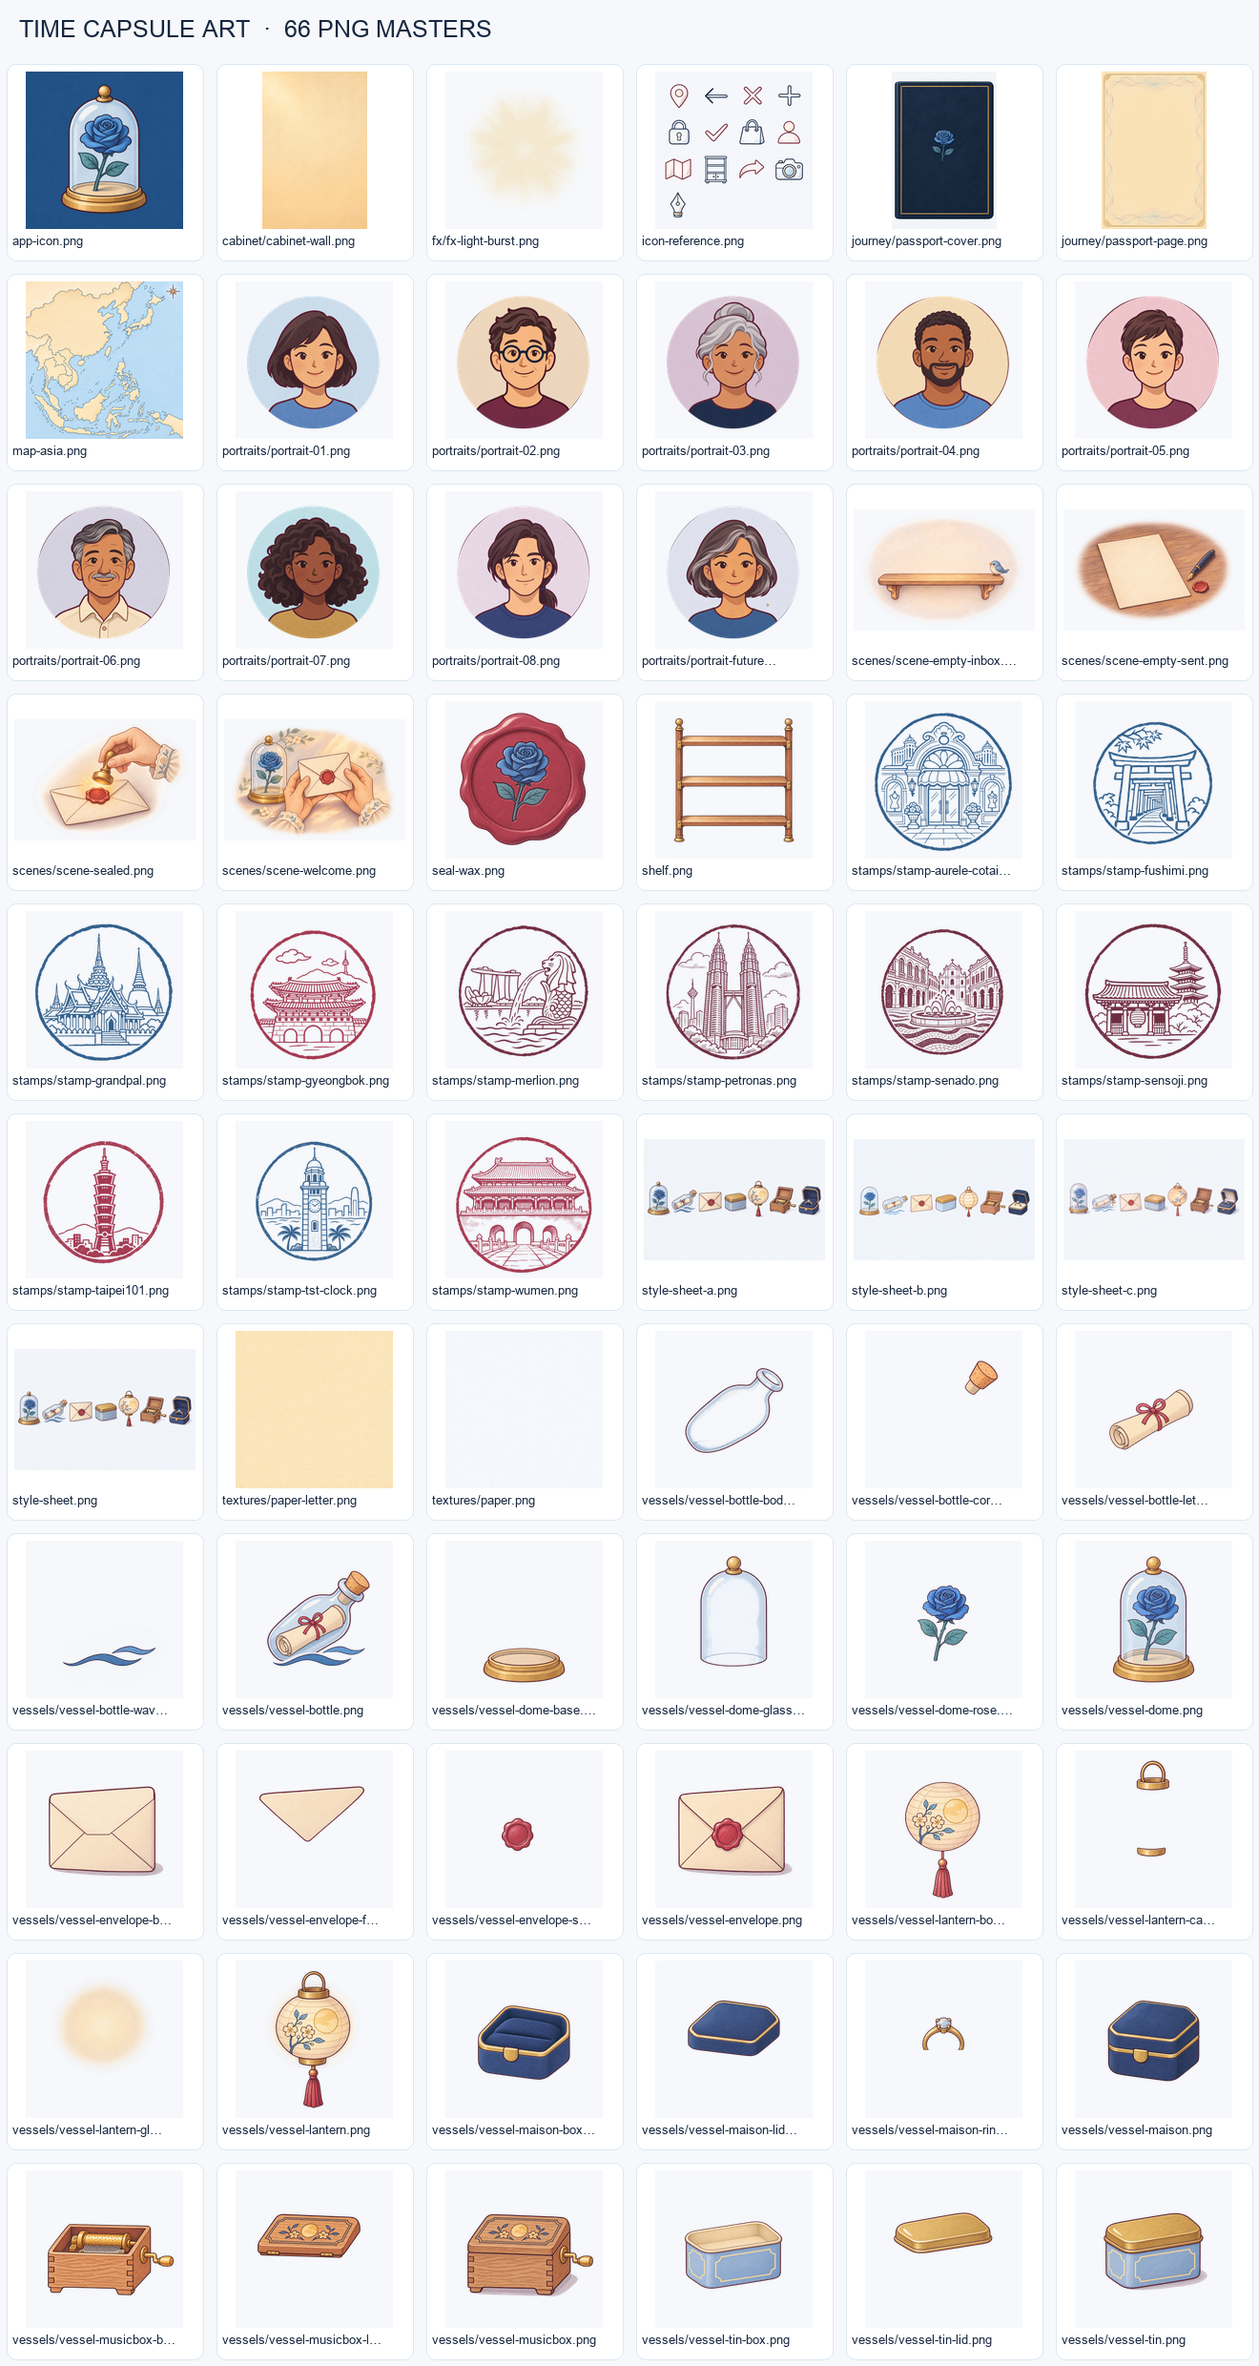
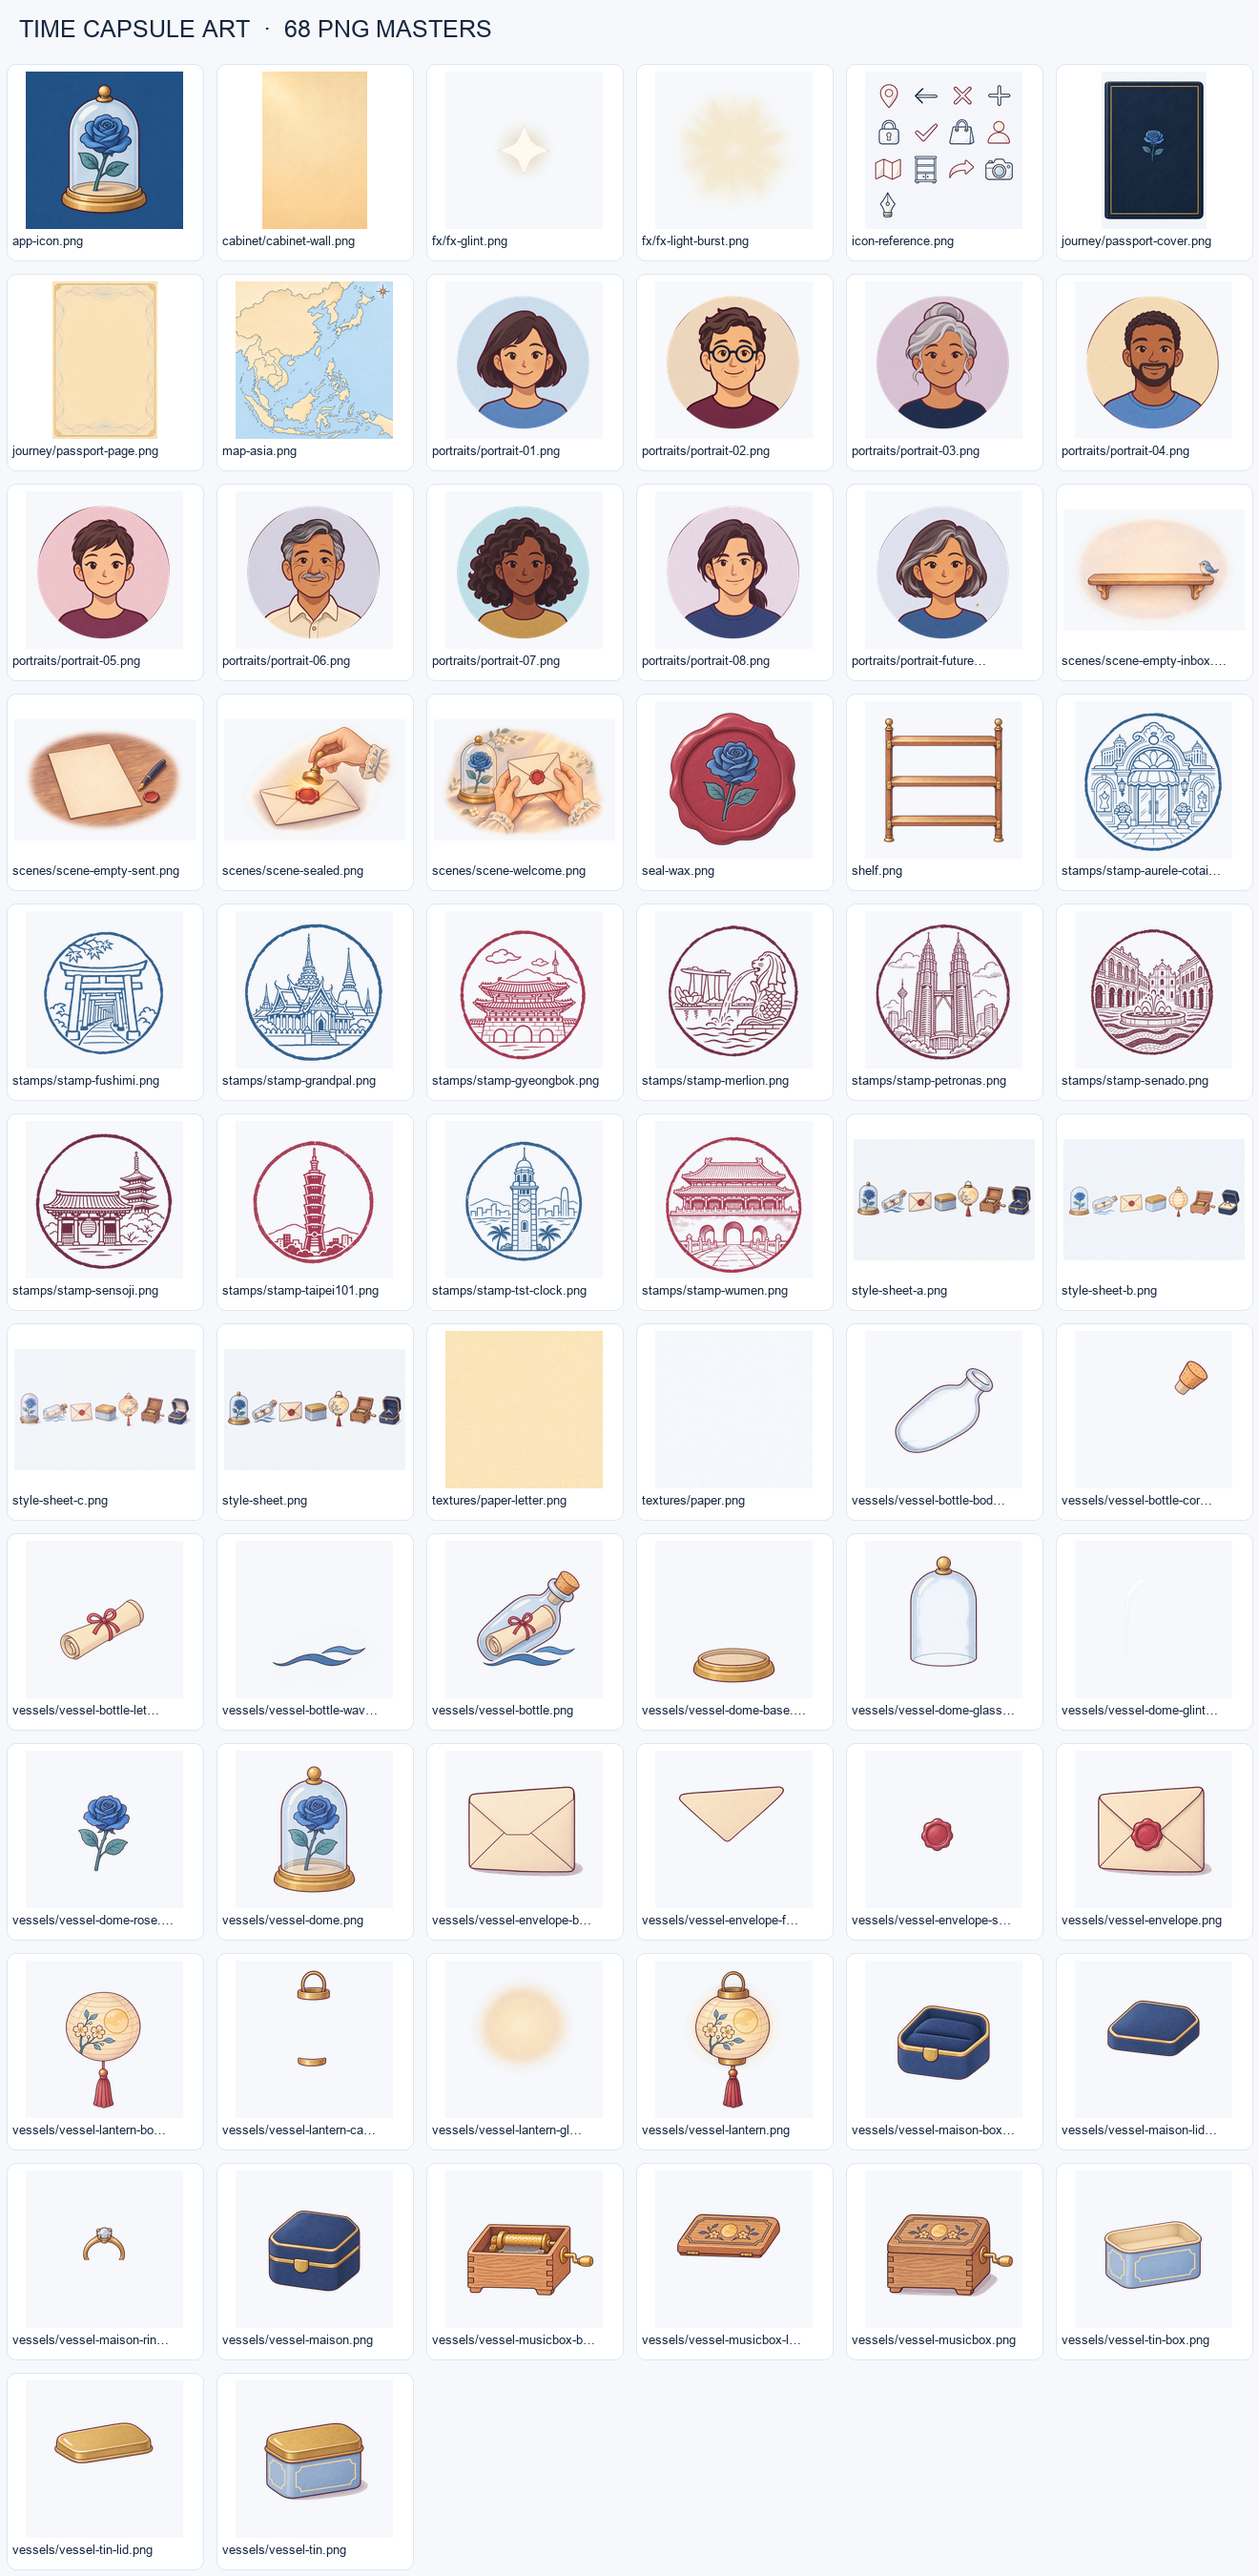
Export and document approved idle glints

diff --git a/design/art/scripts/build-manifest.py b/design/art/scripts/build-manifest.py
@@ -1,5 +1,5 @@
 #!/usr/bin/env python3
-"""Build the T9/T9b prompt manifest and master-file table."""
+"""Build the art prompt manifest and master-file table."""
 
 import json
 from pathlib import Path
@@ -36,6 +36,8 @@ SPECIAL = {
     "scenes/scene-empty-sent.png": "Empty sent: blank letter, pen and wax",
     "scenes/scene-sealed.png": "Letter being sealed with warm glow",
     "fx/fx-light-burst.png": "Warm radial opening light effect",
+    "fx/fx-glint.png": "Small four-point idle sparkle for wax and brass",
+    "vessels/vessel-dome-glint.png": "Travelling highlight for the dome glass",
     "journey/passport-cover.png": "Navy and brass passport cover",
     "journey/passport-page.png": "Blank cream passport page",
     "cabinet/cabinet-wall.png": "Warm plaster and wood-panel wall",
@@ -47,6 +49,8 @@ POSTPROCESS = {
     "textures/paper.png": "Resized to 1024 square and made seamless by finish-backgrounds.py.",
     "textures/paper-letter.png": "Resized to 1024 square and made seamless by finish-backgrounds.py.",
     "fx/fx-light-burst.png": "Outer gray rim removed and rays feathered by finish-backgrounds.py.",
+    "vessels/vessel-dome-glint.png": "Generated edit of the assembled dome; downscaled to 1024, stray alpha removed and peak alpha capped at 179 by finish-idle-glints.py.",
+    "fx/fx-glint.png": "Generated four-point sparkle; finish-idle-glints.py smoothed the star edge, strengthened its warm-white core and brass tint, and faded the bloom to transparent for 16/24 px use.",
 }
 MAP_PINS = {
     # Positions are hand-placed on the drawn 1254×1254 map, not a geographic projection.
@@ -129,6 +133,7 @@ def main() -> None:
 
     lines = [
         "# Time Capsule art assets", "",
+        "To make new art, follow [STYLE.md](STYLE.md). This README lists what already exists.", "",
         "Roy chose style sheet A. All generated masters use the built-in `gpt-image-2` image tool with the approved sheet as their style reference; the exact prompts and any postprocessing are in `manifest.json`.", "",
         "PNG masters live in `design/art/`. WebP copies live at matching paths in `public/art/`, except the style sheets and `_checks/`. Names use kebab-case: `<category>-<id>-<part>` where a part exists. Vessel IDs: dome, bottle, envelope, tin, lantern, musicbox, maison. Place IDs: senado, tst-clock, taipei101, sensoji, fushimi, gyeongbok, merlion, grandpal, wumen, petronas, aurele-cotai.", "",
         "The original SVG art remains in `src/art.js` and is recoverable from Git tag `art-svg-v1`. These bitmap assets are not wired into app screens yet.", "",
@@ -137,6 +142,7 @@ def main() -> None:
         "- Dome stack: base → rose → glass. Bottle stack: waves → letter → body → cork. Glass interior alpha below 200 was scaled to 37.5% so contents stay visible.",
         "- All nine portraits are the main profile pictures, with an identical 860 px diameter disc centered at (505, 526). `_checks/portraits-small.png` shows 24 px and 40 px tests.",
         "- Passport stamps use one ink color each. Paper textures are opaque and seamlessly tile at all edges. Scene edges fade to transparency.",
+        "- A2 idle effects: `vessels/vessel-dome-glint.png` overlays the existing dome glass without changing vessel art; `fx/fx-glint.png` catches on wax seals and brass edges. Roy approved both after `_checks/idle-glint-review.png` showed the dome at 120/240 px and the sparkle at 16/24 px on envelope and tin. `finish-idle-glints.py` downscaled and refined the generated layers.",
         "- The built-in image tool returned the map at native 1254 × 1254, its largest square output here; no artificial upscale was used.",
         "- The map entry in `manifest.json` has eleven hand-placed `pins` coordinates in that native 1254 × 1254 pixel space. They follow the illustrative coastlines rather than a precise map projection. `_checks/map-pins.png` overlays their exact points and labels; the Macau boutique pin sits beside Senado Square.",
         "- The T9c pin placement was checked against Roy's supplied world map and an [online East/Southeast Asia map](https://maplab-icon.com/blog-entry-784-html/); [Natural Earth coastlines](https://www.naturalearthdata.com/downloads/10m-physical-vectors/) were consulted for a reliable geographic source. These pins are display positions only; actual location checks use the app's place coordinates.",
@@ -155,7 +161,7 @@ def main() -> None:
         if not entry["transparent"]:
             notes.append("opaque")
         lines.append(f"| `{rel}` | {entry['what']} | {entry['size_px'][0]}×{entry['size_px'][1]} | {', '.join(notes)} |")
-    lines += ["", "## Review", "", "[Full contact sheet](_checks/contact-sheet.png) · [Vessel 120 px checks](_checks/vessels-at-120px.png) · [Portrait 24/40 px strip](_checks/portraits-small.png) · [Map pin overlay](_checks/map-pins.png)", ""]
+    lines += ["", "## Review", "", "[Full contact sheet](_checks/contact-sheet.png) · [Vessel 120 px checks](_checks/vessels-at-120px.png) · [Portrait 24/40 px strip](_checks/portraits-small.png) · [Map pin overlay](_checks/map-pins.png) · [Idle glint review](_checks/idle-glint-review.png)", ""]
     (ROOT / "README.md").write_text("\n".join(lines))
     print("manifest and README:", len(entries), "masters", len(prompts), "prompts")
 

diff --git a/design/art/README.md b/design/art/README.md
@@ -14,6 +14,7 @@ The original SVG art remains in `src/art.js` and is recoverable from Git tag `ar
 - Dome stack: base → rose → glass. Bottle stack: waves → letter → body → cork. Glass interior alpha below 200 was scaled to 37.5% so contents stay visible.
 - All nine portraits are the main profile pictures, with an identical 860 px diameter disc centered at (505, 526). `_checks/portraits-small.png` shows 24 px and 40 px tests.
 - Passport stamps use one ink color each. Paper textures are opaque and seamlessly tile at all edges. Scene edges fade to transparency.
+- A2 idle effects: `vessels/vessel-dome-glint.png` overlays the existing dome glass without changing vessel art; `fx/fx-glint.png` catches on wax seals and brass edges. Roy approved both after `_checks/idle-glint-review.png` showed the dome at 120/240 px and the sparkle at 16/24 px on envelope and tin. `finish-idle-glints.py` downscaled and refined the generated layers.
 - The built-in image tool returned the map at native 1254 × 1254, its largest square output here; no artificial upscale was used.
 - The map entry in `manifest.json` has eleven hand-placed `pins` coordinates in that native 1254 × 1254 pixel space. They follow the illustrative coastlines rather than a precise map projection. `_checks/map-pins.png` overlays their exact points and labels; the Macau boutique pin sits beside Senado Square.
 - The T9c pin placement was checked against Roy's supplied world map and an [online East/Southeast Asia map](https://maplab-icon.com/blog-entry-784-html/); [Natural Earth coastlines](https://www.naturalearthdata.com/downloads/10m-physical-vectors/) were consulted for a reliable geographic source. These pins are display positions only; actual location checks use the app's place coordinates.
@@ -27,6 +28,7 @@ The original SVG art remains in `src/art.js` and is recoverable from Git tag `ar
 |---|---|---:|---|
 | `app-icon.png` | Blue rose dome app icon master | 1024×1024 | opaque |
 | `cabinet/cabinet-wall.png` | Warm plaster and wood-panel wall | 1024×1536 | opaque |
+| `fx/fx-glint.png` | Small four-point idle sparkle for wax and brass | 1024×1024 | processed; see manifest |
 | `fx/fx-light-burst.png` | Warm radial opening light effect | 1024×1024 | processed; see manifest |
 | `icon-reference.png` | Thirteen UI icon reference grid | 1024×1024 | opaque |
 | `journey/passport-cover.png` | Navy and brass passport cover | 1024×1536 | opaque |
@@ -71,6 +73,7 @@ The original SVG art remains in `src/art.js` and is recoverable from Git tag `ar
 | `vessels/vessel-bottle.png` | Assembled message in a bottle vessel | 1024×1024 |  |
 | `vessels/vessel-dome-base.png` | Glass-Dome Blue Rose — base layer | 1024×1024 |  |
 | `vessels/vessel-dome-glass.png` | Glass-Dome Blue Rose — glass layer | 1024×1024 | processed; see manifest |
+| `vessels/vessel-dome-glint.png` | Travelling highlight for the dome glass | 1024×1024 | processed; see manifest |
 | `vessels/vessel-dome-rose.png` | Glass-Dome Blue Rose — rose layer | 1024×1024 |  |
 | `vessels/vessel-dome.png` | Assembled glass-dome blue rose vessel | 1024×1024 |  |
 | `vessels/vessel-envelope-body.png` | Wax-Sealed Letter — body layer | 1024×1024 |  |
@@ -94,4 +97,4 @@ The original SVG art remains in `src/art.js` and is recoverable from Git tag `ar
 
 ## Review
 
-[Full contact sheet](_checks/contact-sheet.png) · [Vessel 120 px checks](_checks/vessels-at-120px.png) · [Portrait 24/40 px strip](_checks/portraits-small.png) · [Map pin overlay](_checks/map-pins.png)
+[Full contact sheet](_checks/contact-sheet.png) · [Vessel 120 px checks](_checks/vessels-at-120px.png) · [Portrait 24/40 px strip](_checks/portraits-small.png) · [Map pin overlay](_checks/map-pins.png) · [Idle glint review](_checks/idle-glint-review.png)

diff --git a/AGENTS.md b/AGENTS.md
@@ -118,6 +118,7 @@ A mobile-first web app for sending someone a sealed **capsule** that can only be
 - 2026-11-06: Roy approved the dome test. Lower the dome glass interior alpha to about 35–40% of its generated value with a script, keeping opaque details; stack base → rose → glass and check readability at 120 px. Apply the same clear-glass rule to the bottle. The new generated portraits are the app's main profile pictures, pending a first-three portrait review at 24 and 40 px. T9b adds textures, scenes, FX, passport, cabinet wall, and an icon reference sheet after that review.
 - 2026-11-07: Roy approved the vessels and first three portraits. The music box was redrawn as closed warm brown wood with a brass side crank. All nine main portraits use the same scripted circular mask (center 505,526; radius 430 on a 1024 canvas); portrait 02 has thicker navy glasses. Art masters live in `design/art/`, web copies in `public/art/`, generated with built-in `gpt-image-2` and checked as T9/T9b. The original SVG art remains in `src/art.js` and is tagged `art-svg-v1`. Final UI icons will be code-drawn using `design/art/icon-reference.png` as reference.
 - 2026-11-07: Roy approved and Codex merged art PR #11. T9c adds eleven hand-placed pin positions to the `map-asia.png` manifest entry and a native-pixel overlay for review. The artwork is stylized, so these coordinates are approximate display positions, not GPS or navigation coordinates. Roy supplied a real-world map and asked that all future map and country-flag work first inspect an online reference image; T9c compared the illustration with an online East/Southeast Asia map and Natural Earth coastline data. Roy approved the overlay, and PR #12 merged as `b47ab15`.
+- 2026-11-07: Roy approved A2's two idle effects: a separate curved dome-glass highlight and a small four-point wax/brass sparkle. The dome master stayed unchanged after first review. The sparkle was refined by script, without regeneration, to smooth its edge, strengthen contrast on brass at 16/24 px, and fade its bloom fully to transparency. The effects live in `design/art/` with WebP copies in `public/art/`; Claude will wire them into vessel idle motion separately. No existing vessel or app code changes in A2.
 
 - 2026-11-06: Roy approved React Native + Expo for iOS, Android and later web. The new app lives in `mobile/`; the root web app stays live until parity. Shared services, components, theme and translations live under `mobile/src/`, and routes under `mobile/app/`. Illustrated portraits are the chosen direction, with existing SVG portraits as the fallback until art assets are available.
 - 2026-11-06: Added the native `timecapsule://auth/callback` redirect and temporary Expo Go / web callbacks for the current M6 development server to Supabase Authentication URL Configuration. Expo Go OAuth requires a development build; the website redirect settings were preserved.

diff --git a/docs/TASKS.md b/docs/TASKS.md
@@ -27,7 +27,6 @@ Status: `todo` → `doing` → `review` (report sent to Claude) → `done`. Move
 | T6 | Installable app (PWA): manifest, icons, offline shell | Claude | "Add to Home Screen" gives a proper icon and full-screen app |
 | T7 | Brand capsules for real: staff check-in QR at the boutique, gift escrow/expiry rules, partner console (README §2, §7) | Claude plans → Codex builds | To be specified |
 | T8 | Real payments for the shop (only when Roy decides) | Codex | Roy has chosen a provider |
-| A2 | Idle glint art: `vessel-dome-glint` and `fx-glint` (gpt-image-2, per STYLE.md), then Claude wires them into the M1 idle loops | Codex art → Claude wiring | Roy approves the review overlay; art PR merged |
 | N3 | TODO: in-app account deletion | Codex | A signed-in user can initiate deletion inside the app before App Store release. Current support-email request remains the interim process. |
 
 ## End-of-project phone checklist
@@ -37,6 +36,7 @@ Status: `todo` → `doing` → `review` (report sent to Claude) → `done`. Move
 - PR #31: Softer tap/tick/warning WAV files, no application-code changes. Green PR CI on `6dcba1a`; squash-merged as `f2370cc` through the owner account, followed by an owner-authored production release. All three files validated as mono 16-bit PCM at 44.1 kHz.
 - M1 / PR #29: Resting vessel motion merged after green CI as `be267a9`; Home and Create selection retain the active-vessel and Reduce Motion controls.
 - PR #30: Background music, nine effects and independent Me switches merged after green CI as `139a1a0`. Effects prepare at startup and rewind between plays. Roy confirmed both audio types in iPhone Expo Go SDK 58 and confirmed the swipe/tap delay is fixed. Fifteen unit tests, TypeScript, dependency checks and web/iOS exports pass; browser Home and audio controls checked. One owner-authored release follows the ordered merges; native seal and keyboard fixes retained.
+- A2: Roy approved the separate dome-glass idle highlight and refined four-point wax/brass sparkle; masters, WebP exports, manifest, checks and contact sheet are in the art PR. Claude wires the effects into idle motion separately.
 - N4: Native seal pan blocks the ScrollView, with consistent animation drivers and reliable cancellation/snap-back. Screen/Auth share keyboard avoidance; native Create actions stay above the keyboard. Roy confirmed keyboard, seal drag, release and flick in iPhone Expo Go; web checks and iOS/web exports pass. Physical screenshots were not captured from this Mac. Release follows green PR CI.
 - PR #26: Restore the original four solid sealed lines (92/76/88/56%) with soft blur. Green CI; squash-merged as `7653a9b`, followed by an owner-authored production release.
 - PR #24: Sent view sealed placeholder uses blurred word-shaped lines. Rebased PR CI passed; squash-merged as `bdae57d`, followed by an owner-authored release commit for production.
